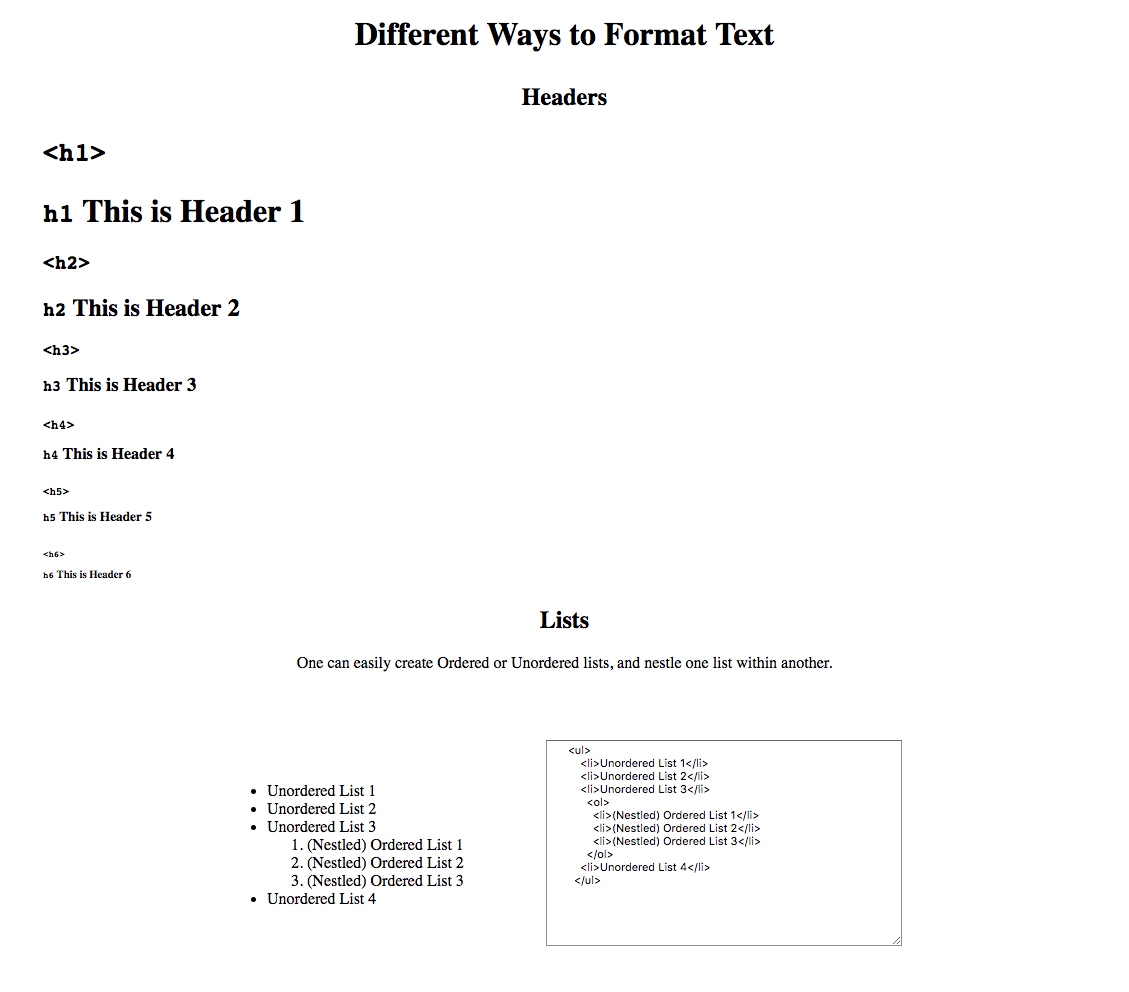
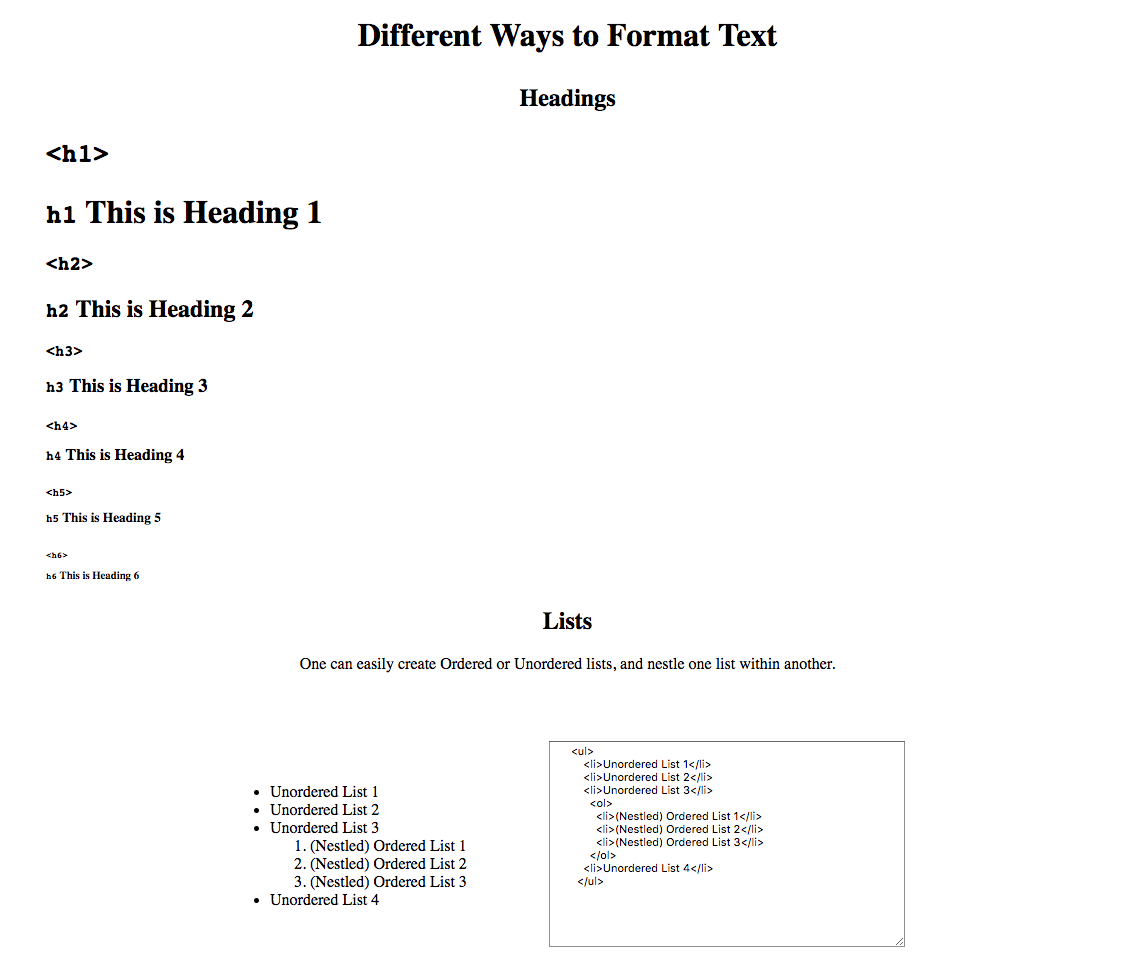
Headings and Lists

diff --git a/text styling/index.html b/text styling/index.html
@@ -7,14 +7,14 @@
   <body>
     <h1 style="text-align: center; padding: 10px; margin: 10px;">Different Ways to Format Text</h1>
 
-    <h2 style="text-align: center">Headers</h2>
+    <h2 style="text-align: center">Headings</h2>
     <blockquote>
-      <h1><xmp><h1></xmp> <code>h1</code> This is Header 1</h1>
-      <h2><xmp><h2></xmp> <code>h2</code> This is Header 2</h2>
-      <h3><xmp><h3></xmp> <code>h3</code> This is Header 3</h3>
-      <h4><xmp><h4></xmp> <code>h4</code> This is Header 4</h4>
-      <h5><xmp><h5></xmp> <code>h5</code> This is Header 5</h5>
-      <h6><xmp><h6></xmp> <code>h6</code> This is Header 6</h6>
+      <h1><xmp><h1></xmp> <code>h1</code> This is Heading 1</h1>
+      <h2><xmp><h2></xmp> <code>h2</code> This is Heading 2</h2>
+      <h3><xmp><h3></xmp> <code>h3</code> This is Heading 3</h3>
+      <h4><xmp><h4></xmp> <code>h4</code> This is Heading 4</h4>
+      <h5><xmp><h5></xmp> <code>h5</code> This is Heading 5</h5>
+      <h6><xmp><h6></xmp> <code>h6</code> This is Heading 6</h6>
     </blockquote>
 
     <h2 style="text-align: center">Lists</h2>
